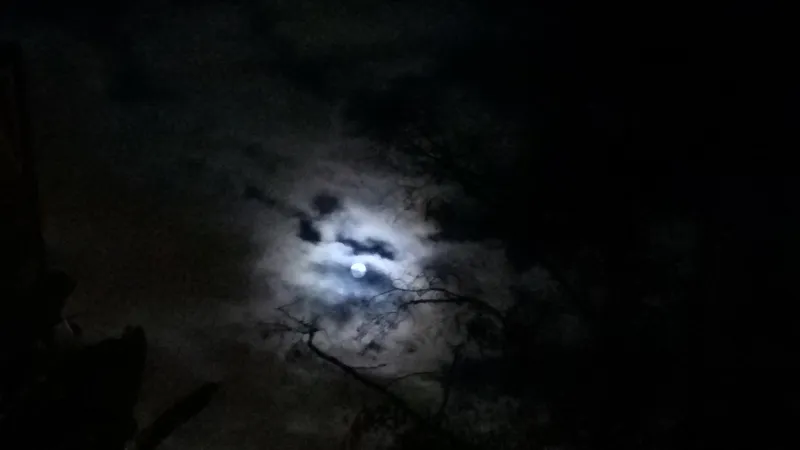
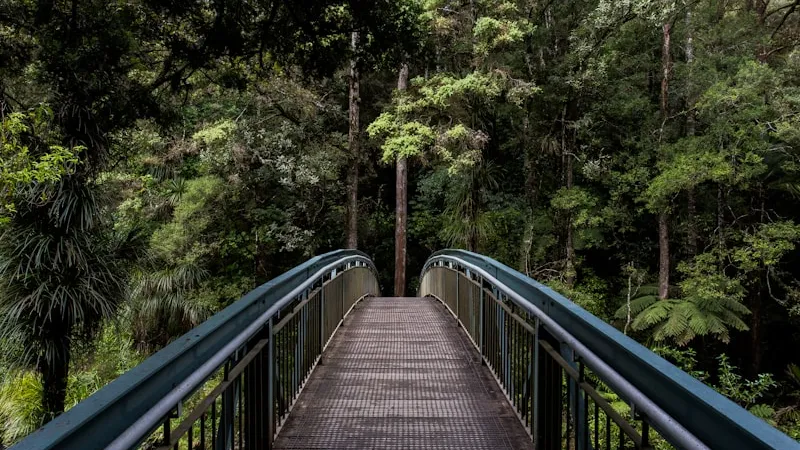
fix(images): substitui gradientes por imagens reais nos 5 posts

diff --git a/src/content/blog/importacoes-batem-recorde-no-brasil-apos-fim-da-cobranca-de-imposto-federal.md b/src/content/blog/importacoes-batem-recorde-no-brasil-apos-fim-da-cobranca-de-imposto-federal.md
@@ -2,8 +2,8 @@
 title: 'Importações Batem Recorde Pós-Isenção: O Que Isso Significa para o Gamer?'
 description: 'Com o fim da taxa federal em compras internacionais, o Brasil registrou um recorde histórico de importações. Entenda como essa mudança pode beneficiar a comunidade gamer brasileira.'
 pubDate: 'Tue Jul 21 2026'
-heroImage: '../../assets/importacoes-correios.webp'
-ogImage: '../../assets/importacoes-correios.webp'
+heroImage: '../../assets/correios-logo.webp'
+ogImage: '../../assets/correios-logo.webp'
 tags: ['Mercado Gamer', 'Importação', 'Economia', 'Compras Online']
 ---
 O cenário de importações no Brasil ganhou um novo capítulo após o fim da cobrança do imposto federal para compras internacionais de até US$ 50. Dados recentes da Receita Federal revelam um aumento expressivo, com 28 milhões de encomendas registradas em junho, um recorde histórico. Para a comunidade gamer, que frequentemente busca produtos exclusivos, acessórios e jogos com preços mais competitivos fora do país, essa mudança pode representar uma janela de oportunidades e desafios. Mas, afinal, o que o fim da “taxa das blusinhas” significa na prática para quem vive e respira o mundo dos games?

diff --git a/src/content/blog/agua-no-farol-de-led-pode-causar-prejuizo-gigantesco-veja-o-motivo.md b/src/content/blog/agua-no-farol-de-led-pode-causar-prejuizo-gigantesco-veja-o-motivo.md
@@ -2,8 +2,8 @@
 title: 'Umidade e Hardware Gamer: Proteja Seu Setup do Inimigo Invisível!'
 description: 'Seu setup gamer de ponta está em risco? Entenda como a umidade pode ser um inimigo silencioso, causando danos irreversíveis a componentes como LEDs e placas, e como se proteger de prejuízos que forçam a troca completa.'
 pubDate: 'Sat Jul 11 2026'
-heroImage: '../../assets/umidade-hardware.webp'
-ogImage: '../../assets/umidade-hardware.webp'
+heroImage: '../../assets/water-damage.webp'
+ogImage: '../../assets/water-damage.webp'
 tags: ['Hardware', 'PCGamer', 'Manutenção', 'Periféricos']
 ---
 No universo gamer, investimos tempo e dinheiro em máquinas potentes e periféricos de última geração, muitas vezes adornados com LEDs RGB que elevam a experiência visual. Mas, assim como acontece com tecnologias automotivas sofisticadas, como os faróis de LED de carros modernos, existe um inimigo silencioso que pode comprometer todo esse investimento: a umidade. Mais do que um simples incômodo visual, a infiltração de água ou o excesso de umidade no ambiente podem levar a prejuízos catastróficos, exigindo reparos caríssimos ou até a substituição completa de componentes.

diff --git a/src/content/blog/byd-faz-queima-e-joga-precos-no-chao-para-desencalhar-modelo-hibrido.md b/src/content/blog/byd-faz-queima-e-joga-precos-no-chao-para-desencalhar-modelo-hibrido.md
@@ -2,8 +2,8 @@
 title: '"Caminho do Dragão": Preço Despenca em Última Tentativa de Conquistar Gamers!'
 description: 'O ambicioso RPG "Caminho do Dragão", que não engrenou nas vendas por seu alto preço inicial, agora recebe um corte brutal para atrair novos jogadores. Esta é a oportunidade perfeita para explorar seu vasto mundo.'
 pubDate: 'Tue Jul 21 2026'
-heroImage: '../../assets/caminho-dragao.webp'
-ogImage: '../../assets/caminho-dragao.webp'
+heroImage: '../../assets/dragon-art.webp'
+ogImage: '../../assets/dragon-art.webp'
 tags: ['RPG', 'Open World', 'Descontos', 'PC Gaming']
 ---
 O universo dos games é um campo de batalha, não apenas entre jogadores, mas também entre os próprios títulos disputando a atenção e o bolso do público. Lançamentos com alto potencial podem tropeçar por diversos motivos, e um deles é a estratégia de precificação. É o que parece ter acontecido com "Caminho do Dragão", um RPG de mundo aberto que prometia muito, mas não conseguiu deslanchar desde sua estreia.

diff --git a/src/content/blog/nissan-kait-fica-com-precos-no-chao-em-julho-mas-nao-para-todo-mundo.md b/src/content/blog/nissan-kait-fica-com-precos-no-chao-em-julho-mas-nao-para-todo-mundo.md
@@ -2,8 +2,8 @@
 title: 'Sussurros da Mata: O Terror Nacional Ganha Voz e Traz Arrepios ao Brasil'
 description: 'Prepare-se para imergir no folclore brasileiro como nunca antes. "Sussurros da Mata", o novo jogo de terror, promete uma experiência arrepiante e autenticamente nacional.'
 pubDate: 'Sat Jul 18 2026'
-heroImage: '../../assets/sussurros-mata-hero.webp'
-ogImage: '../../assets/sussurros-mata-hero.webp'
+heroImage: '../../assets/sussurros-mata.webp'
+ogImage: '../../assets/sussurros-mata.webp'
 tags: ['Terror', 'Indie', 'Folclore', 'Brasil']
 ---
 A cena de desenvolvimento de jogos no Brasil está mais vibrante do que nunca, e com ela, cresce a expectativa por títulos que não apenas entretenham, mas que também celebrem nossa rica cultura. É nesse cenário que surge "Sussurros da Mata", um jogo de terror que promete levar os jogadores a uma imersão profunda e assustadora no coração do folclore brasileiro, após a revelação de seu aguardado trailer.

diff --git a/src/content/blog/toyota-derrete-precos-e-da-descontos-na-linha-do-yaris-cross-em-julho.md b/src/content/blog/toyota-derrete-precos-e-da-descontos-na-linha-do-yaris-cross-em-julho.md
@@ -2,8 +2,8 @@
 title: 'Mega Descontos: Grandes Títulos e Consoles Acessíveis em Promoção!'
 description: 'Uma onda de promoções arrasadoras atingiu o mercado de games, tornando consoles e títulos AAA mais acessíveis do que nunca. Descubra como aproveitar esses ''preços derretidos'' e expandir sua biblioteca sem pesar no bolso.'
 pubDate: 'Mon Jul 20 2026'
-heroImage: '../../assets/mega-descontos.webp'
-ogImage: '../../assets/mega-descontos.webp'
+heroImage: '../../assets/switch-oled-hero.webp'
+ogImage: '../../assets/switch-oled-hero.webp'
 tags: ['Promoções', 'Consoles', 'GamesAAA', 'Hardware']
 ---
 Em um movimento que pegou a indústria de surpresa, grandes players do cenário gamer anunciaram descontos agressivos em seus catálogos e hardware selecionados. Essa iniciativa visa ampliar o acesso a experiências premium, beneficiando milhares de jogadores brasileiros ávidos por novidades.
